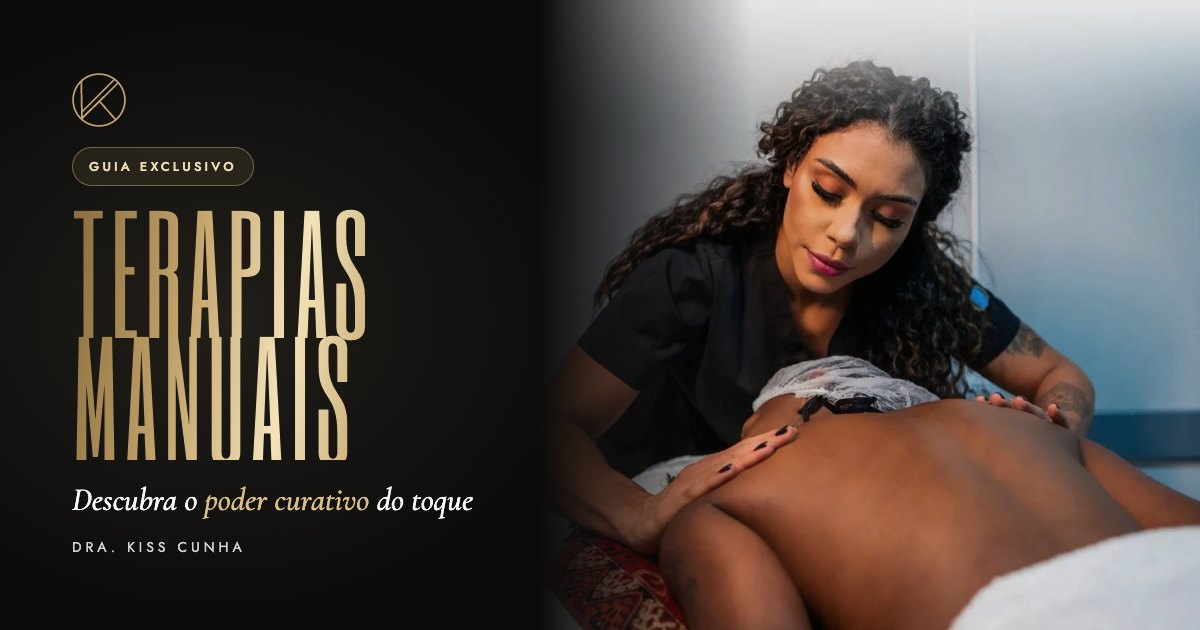
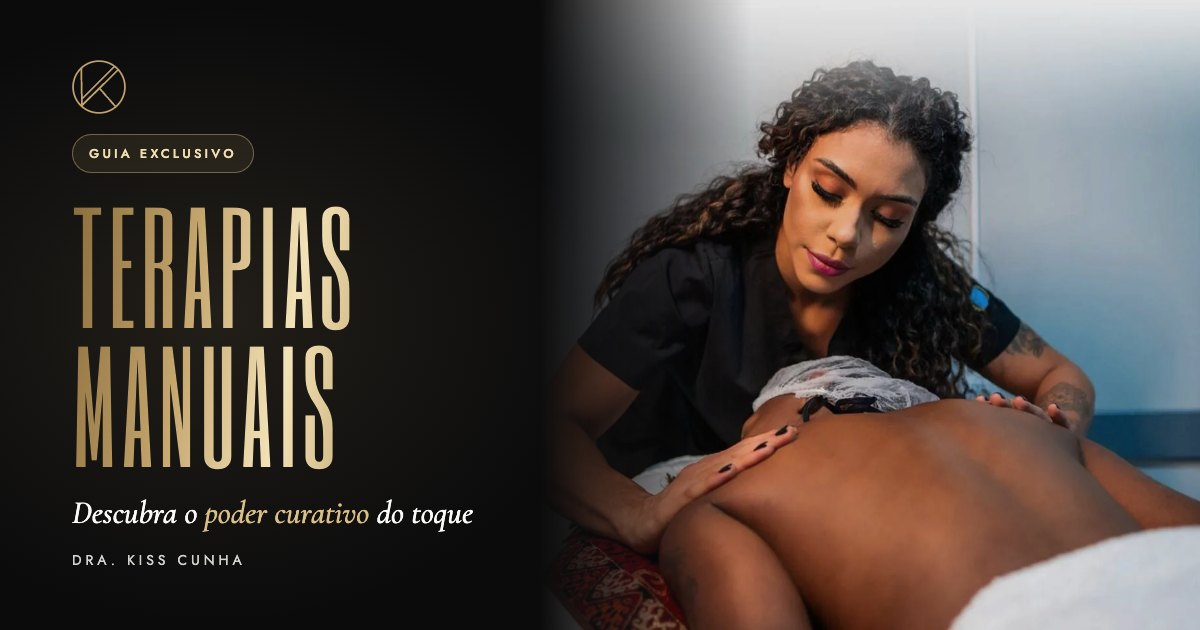
Corrige base cortada dos títulos dourados (site, lista, guia e capas); guia com seletor PT/EN/ES

Changed region(s): [[0.0617, 0.3317, 0.3083, 0.754], [0.0617, 0.7841, 0.4008, 0.9048], [0.0617, 0.0905, 0.2158, 0.3016]]

diff --git a/js/i18n.js b/js/i18n.js
@@ -222,6 +222,96 @@ const T = {
   "Conheça a Dra. Kiss Cunha": ["Meet Dra. Kiss Cunha", "Conoce a la Dra. Kiss Cunha"],
   "Mãos que tocam <em>e transformam</em>": ["Hands that touch <em>and transform</em>", "Manos que tocan <em>y transforman</em>"],
 
+  // ----- guia de terapias manuais -----
+  "Descubra o <em>poder curativo</em> das terapias manuais": ["Discover the <em>healing power</em> of manual therapies", "Descubre el <em>poder curativo</em> de las terapias manuales"],
+  "Minha história com a <em>massoterapia</em>": ["My story with <em>massage therapy</em>", "Mi historia con la <em>masoterapia</em>"],
+  "Dra. Kiss <em>Cunha</em>": ["Dra. Kiss <em>Cunha</em>", "Dra. Kiss <em>Cunha</em>"],
+  "Thai <em>massage</em>": ["Thai <em>massage</em>", "Masaje <em>tailandés</em>"],
+  "Um toque para cada <em>momento</em>": ["A touch for every <em>moment</em>", "Un toque para cada <em>momento</em>"],
+  "Um dia especial para clientes e <em>colaboradores</em>": ["A special day for clients and <em>employees</em>", "Un día especial para clientes y <em>colaboradores</em>"],
+  "Seu momento de <em>recarregar</em>": ["Your time to <em>recharge</em>", "Tu momento para <em>recargar</em>"],
+  "Massagem relaxante": ["Relaxing massage", "Masaje relajante"],
+  "Drenagem linfática": ["Lymphatic drainage", "Drenaje linfático"],
+  "Dreno detox ou modeladora": ["Detox drainage or body sculpting", "Drenaje detox o modelador"],
+  "Massagem para a terceira idade": ["Massage for seniors", "Masaje para la tercera edad"],
+  "Massagem desportiva": ["Sports massage", "Masaje deportivo"],
+  "Massagem em gestantes": ["Prenatal massage", "Masaje para embarazadas"],
+  "Massagem bronzeadora": ["Tanning massage", "Masaje bronceador"],
+  "Pós-operatório de cirurgias estéticas": ["Aesthetic surgery aftercare", "Postoperatorio de cirugías estéticas"],
+  "Terapias": ["Manual", "Terapias"],
+  "Manuais": ["Therapies", "Manuales"],
+  "“Seu momento de recarregar as energias comigo.”": ["“Your moment to recharge your energy with me.”", "“Tu momento de recargar energías conmigo.”"],
+  "Enfermeira esteta · Coren SE 680040": ["Aesthetic nurse · Coren SE 680040", "Enfermera estética · Coren SE 680040"],
+  "Enfermeira esteta<br>Coren SE 680040": ["Aesthetic nurse<br>Coren SE 680040", "Enfermera estética<br>Coren SE 680040"],
+  "Minha história": ["My story", "Mi historia"],
+  "Apaixonada por massagem, sempre procurei profissionais capacitados para ter um momento de relaxamento ou para acreditar no meu progresso de desenvolvimento estético pessoal, com as massagens relaxante, modeladora, drenagem e uma que me fazia muito bem, a liberação miofascial.": ["Passionate about massage, I always sought out skilled professionals for a moment of relaxation or to believe in my own aesthetic progress, through relaxing massage, body sculpting, drainage and one that did me a lot of good: myofascial release.", "Apasionada por los masajes, siempre busqué profesionales capacitados para tener un momento de relajación o para creer en mi propio progreso estético, con masajes relajantes, modeladores, drenaje y uno que me hacía muy bien: la liberación miofascial."],
+  "Atuo com massagens há 3 anos e sinto muita satisfação em fazer meus pacientes mais felizes.": ["I have been working with massage for 3 years and it's deeply rewarding to make my patients happier.", "Trabajo con masajes desde hace 3 años y me llena de satisfacción hacer más felices a mis pacientes."],
+  "O toque cura, as mãos abençoam e levam nossa boa energia por onde formos.": ["Touch heals, hands bless and carry our good energy wherever we go.", "El toque cura, las manos bendicen y llevan nuestra buena energía a donde vayamos."],
+  "Conheça minhas massagens": ["See my massages", "Conoce mis masajes"],
+  "Quem sou eu?": ["Who am I?", "¿Quién soy?"],
+  "Olá, sou a Dra. Kiss Cunha, enfermeira esteta e sergipana. Minha paixão pela beleza e pelo cuidado com o corpo e a mente me levou a buscar conhecimentos e aprimorar técnicas que hoje posso oferecer aos meus pacientes. Acredito que a estética é uma área que vai muito além da vaidade: ela tem o poder de transformar sonhos em realidade e proporcionar uma sensação única de bem-estar e autoconfiança.": ["Hi, I'm Dra. Kiss Cunha, an aesthetic nurse from Sergipe, Brazil. My passion for beauty and for caring for body and mind led me to seek knowledge and refine techniques I can now offer my patients. I believe aesthetics goes far beyond vanity: it has the power to turn dreams into reality and bring a unique sense of well-being and self-confidence.", "Hola, soy la Dra. Kiss Cunha, enfermera estética de Sergipe, Brasil. Mi pasión por la belleza y por el cuidado del cuerpo y la mente me llevó a buscar conocimiento y perfeccionar técnicas que hoy puedo ofrecer a mis pacientes. Creo que la estética va mucho más allá de la vanidad: tiene el poder de convertir sueños en realidad y brindar una sensación única de bienestar y autoconfianza."],
+  "Cada paciente que atendo é único e possui necessidades específicas. Por isso, busco oferecer um atendimento personalizado e de qualidade, utilizando técnicas avançadas e seguras para garantir resultados satisfatórios e duradouros. É uma satisfação imensa poder ajudar meus pacientes a se sentirem ainda mais bonitos, confiantes e felizes consigo mesmos.": ["Every patient I see is unique and has specific needs. That's why I offer personalised, high-quality care, using advanced and safe techniques to achieve satisfying, lasting results. It's a great joy to help my patients feel even more beautiful, confident and happy with themselves.", "Cada paciente que atiendo es único y tiene necesidades específicas. Por eso ofrezco una atención personalizada y de calidad, con técnicas avanzadas y seguras para lograr resultados satisfactorios y duraderos. Es una enorme satisfacción ayudar a mis pacientes a sentirse aún más bellos, seguros y felices consigo mismos."],
+  "Se você busca um tratamento especializado e uma experiência única em cuidados estéticos, venha conhecer meu trabalho.": ["If you're looking for specialised treatment and a unique aesthetic care experience, come and get to know my work.", "Si buscas un tratamiento especializado y una experiencia única en cuidados estéticos, ven a conocer mi trabajo."],
+  "Vou te ajudar a transformar seus sonhos em <em>possibilidades reais.</em>": ["I'll help you turn your dreams into <em>real possibilities.</em>", "Te ayudaré a convertir tus sueños en <em>posibilidades reales.</em>"],
+  "Formação": ["Training", "Formación"],
+  "Os meus olhos se abriram ao entrar em contato com a Thai massage. A massagem tailandesa, ou Nuad Phaen Boran, é uma terapia curativa tailandesa que utiliza a massagem como forma de equilíbrio corporal: o terapeuta usa pés, joelhos, polegares, palmas e cotovelos, além de pressão, compressão e alongamento, no corpo do paciente. Trabalha também técnicas de respiração e meditação.": ["My eyes were opened when I discovered Thai massage. Thai massage, or Nuad Phaen Boran, is a traditional Thai healing therapy that uses massage to bring the body into balance: the therapist uses feet, knees, thumbs, palms and elbows, along with pressure, compression and stretching. It also works with breathing and meditation techniques.", "Mis ojos se abrieron al conocer el masaje tailandés. El masaje tailandés, o Nuad Phaen Boran, es una terapia curativa tradicional que usa el masaje para equilibrar el cuerpo: el terapeuta utiliza pies, rodillas, pulgares, palmas y codos, además de presión, compresión y estiramiento. También trabaja técnicas de respiración y meditación."],
+  "Ao conhecer mais sobre a ciência da Thai massage, pude adentrar mais no conhecimento e no amor pela arte, e em todos os meus atendimentos sempre uso alguma técnica e ensinamento dela.": ["Learning more about the science of Thai massage deepened my knowledge and love for the art, and I bring one of its techniques and teachings into every session.", "Al conocer más la ciencia del masaje tailandés, profundicé en el conocimiento y el amor por este arte, y en cada sesión uso alguna de sus técnicas y enseñanzas."],
+  "Habilitação em Thai Massage, níveis 01 e 02": ["Thai Massage certification, levels 01 and 02", "Certificación en Masaje Tailandés, niveles 01 y 02"],
+  "Minhas massagens": ["My massages", "Mis masajes"],
+  "Realizada em todo o corpo, com toques que estimulam sensações de bem-estar e de conexão consigo mesmo.": ["A full-body massage with touches that awaken a sense of well-being and connection with yourself.", "Se realiza en todo el cuerpo, con toques que estimulan sensaciones de bienestar y de conexión con uno mismo."],
+  "<b>Benefícios:</b> diminuição do estresse, aumento da imunidade, diminuição de tensões musculares, ansiedade e medo.": ["<b>Benefits:</b> less stress, stronger immunity, and relief from muscle tension, anxiety and fear.", "<b>Beneficios:</b> menos estrés, más inmunidad y alivio de tensiones musculares, ansiedad y miedo."],
+  "Por meio de uma anamnese, são avaliadas as condições de saúde e a necessidade de toques mais profundos em regiões ou pontos a serem tratados. O ambiente é seguro e climatizado, com iluminação agradável, música e sons que conduzem ao relaxamento.": ["A health history assesses your condition and whether deeper pressure is needed in specific areas or points. The setting is safe and climate-controlled, with soft lighting, music and sounds that lead you into relaxation.", "Mediante una anamnesis se evalúan tu estado de salud y la necesidad de toques más profundos en zonas o puntos a tratar. El ambiente es seguro y climatizado, con iluminación agradable, música y sonidos que conducen a la relajación."],
+  "A queridinha para dar adeus à retenção de líquidos. Estimula o sistema linfático, melhora o fluxo, reduz a retenção de líquidos e favorece a circulação, ajudando na eliminação de toxinas do corpo.": ["The favourite for saying goodbye to fluid retention. It stimulates the lymphatic system, improves flow, reduces fluid retention and boosts circulation, helping the body eliminate toxins.", "La favorita para decir adiós a la retención de líquidos. Estimula el sistema linfático, mejora el flujo, reduce la retención y favorece la circulación, ayudando a eliminar toxinas del cuerpo."],
+  "A preferida para redução de medidas! Associada à drenagem linfática, é uma técnica com movimentos mais intensos e firmes que ajuda na remodelação corporal, visando a redução de medidas e a melhora da aparência da pele.": ["The go-to for reducing measurements! Combined with lymphatic drainage, it uses firmer, more intense movements to help reshape the body, reduce measurements and improve the look of the skin.", "¡La preferida para reducir medidas! Asociada al drenaje linfático, usa movimientos más intensos y firmes que ayudan a remodelar el cuerpo, reducir medidas y mejorar el aspecto de la piel."],
+  "Pode ser associada a procedimentos de intradermoterapia e criolipólise para perda de gordura.": ["Can be combined with intradermotherapy and cryolipolysis for fat loss.", "Puede combinarse con intradermoterapia y criolipólisis para la pérdida de grasa."],
+  "Proporciona alívio da dor, melhora da circulação sanguínea, relaxamento muscular e redução do estresse e da ansiedade.": ["Relieves pain, improves blood circulation, relaxes the muscles and reduces stress and anxiety.", "Alivia el dolor, mejora la circulación sanguínea, relaja los músculos y reduce el estrés y la ansiedad."],
+  "A técnica é adaptada às necessidades e condições de cada pessoa, considerando sua fragilidade e possíveis problemas de saúde.": ["The technique is adapted to each person's needs and condition, taking frailty and possible health issues into account.", "La técnica se adapta a las necesidades y condiciones de cada persona, considerando su fragilidad y posibles problemas de salud."],
+  "Atendimento em home care e em unidades de atenção ao idoso.": ["Available as home care and in senior care facilities.", "Atención a domicilio y en centros de atención al adulto mayor."],
+  "Também conhecida como liberação miofascial, é voltada ao preparo e à recuperação muscular, para atletas ou não. Relaxa os músculos, reduz a tensão, melhora a circulação e ajuda na recuperação após o exercício físico.": ["Also known as myofascial release, it focuses on muscle preparation and recovery, for athletes and non-athletes alike. It relaxes the muscles, reduces tension, improves circulation and speeds recovery after exercise.", "También conocido como liberación miofascial, está enfocado en la preparación y recuperación muscular, para deportistas o no. Relaja los músculos, reduce la tensión, mejora la circulación y ayuda a recuperarse después del ejercicio."],
+  "Também auxilia na prevenção de lesões, identificando áreas de tensão ou desequilíbrios musculares. Pode ser aplicada antes do treino ou da competição para aquecer e preparar os músculos.": ["It also helps prevent injuries by identifying areas of tension or muscle imbalance. It can be done before training or competition to warm up and prepare the muscles.", "También ayuda a prevenir lesiones al identificar zonas de tensión o desequilibrios musculares. Puede aplicarse antes del entrenamiento o la competición para calentar y preparar los músculos."],
+  "Uma forma suave e terapêutica de cuidado durante a gravidez, adaptada às necessidades da gestante: alívio da dor lombar, relaxamento muscular, redução do inchaço e bem-estar geral.": ["A gentle, therapeutic form of care during pregnancy, adapted to the mother-to-be: lower back pain relief, muscle relaxation, less swelling and overall well-being.", "Una forma suave y terapéutica de cuidado durante el embarazo, adaptada a la gestante: alivio del dolor lumbar, relajación muscular, menos hinchazón y bienestar general."],
+  "Ajuda a lidar com as mudanças físicas e emocionais da gestação.": ["It helps you cope with the physical and emotional changes of pregnancy.", "Ayuda a sobrellevar los cambios físicos y emocionales del embarazo."],
+  "Pode ser realizada em home care, com atendimento até o puerpério.": ["Available as home care, including the postpartum period.", "Puede realizarse a domicilio, con atención hasta el puerperio."],
+  "Combina técnicas de massagem com a aplicação de produtos que aceleram o bronzeamento, normalmente com agentes autobronzeadores ou aceleradores de melanina.": ["Combines massage techniques with products that speed up tanning, usually containing self-tanning agents or melanin accelerators.", "Combina técnicas de masaje con la aplicación de productos que aceleran el bronceado, normalmente con autobronceadores o aceleradores de melanina."],
+  "<b>Bronzeado uniforme:</b> a massagem distribui os produtos por igual, evitando manchas e descolorações.": ["<b>Even tan:</b> the massage spreads the products evenly, avoiding streaks and patches.", "<b>Bronceado uniforme:</b> el masaje distribuye los productos de manera pareja, evitando manchas."],
+  "<b>Hidratação da pele:</b> os produtos são ricos em ingredientes hidratantes, que melhoram a textura e a saúde da pele.": ["<b>Skin hydration:</b> the products are rich in moisturising ingredients that improve skin texture and health.", "<b>Hidratación de la piel:</b> los productos son ricos en ingredientes hidratantes que mejoran la textura y la salud de la piel."],
+  "<b>Relaxamento:</b> a própria massagem relaxa os músculos e alivia o estresse.": ["<b>Relaxation:</b> the massage itself relaxes the muscles and relieves stress.", "<b>Relajación:</b> el propio masaje relaja los músculos y alivia el estrés."],
+  "Pode ser feita com seu biquíni ou sunga, ou com biquíni de fita feito antes da sessão.": ["Can be done in your own swimwear, or with a tape bikini applied before the session.", "Puede hacerse con tu bikini o bañador, o con un bikini de cinta hecho antes de la sesión."],
+  "Além das sessões de drenagem linfática (linfoterapia), a consulta de enfermagem traz consultoria e cuidados para uma recuperação melhor, com uso de equipamentos e técnicas como a laserterapia.": ["In addition to lymphatic drainage sessions (lymphotherapy), the nursing consultation provides guidance and care for a better recovery, using equipment and techniques such as laser therapy.", "Además de las sesiones de drenaje linfático (linfoterapia), la consulta de enfermería brinda asesoría y cuidados para una mejor recuperación, con equipos y técnicas como la laserterapia."],
+  "<b>A consulta no pós-operatório contempla:</b>": ["<b>The aftercare consultation includes:</b>", "<b>La consulta postoperatoria incluye:</b>"],
+  "Consulta individualizada e humanizada": ["Individual, human-centred consultation", "Consulta individual y humanizada"],
+  "Anamnese minuciosa": ["Thorough health history", "Anamnesis minuciosa"],
+  "Avaliação facial e corporal baseada em evidências": ["Evidence-based facial and body assessment", "Evaluación facial y corporal basada en evidencia"],
+  "Orientações sobre a equipe que cuidará do caso": ["Guidance on the team who will look after your case", "Orientación sobre el equipo que cuidará tu caso"],
+  "Cuidados pós-procedimento, com apoio da equipe multidisciplinar": ["Aftercare with support from the multidisciplinary team", "Cuidados post-procedimiento, con apoyo del equipo multidisciplinario"],
+  "Para sua empresa": ["For your business", "Para tu empresa"],
+  "O serviço de massagem funciona como um mimo para seu cliente ou paciente em uma data especial, ou num dia da semana em que você queira atrair mais público para sua empresa.": ["The massage service is a treat for your clients or patients on a special date, or on any day of the week when you want to draw more people to your business.", "El servicio de masajes es un detalle para tus clientes o pacientes en una fecha especial, o en un día de la semana en que quieras atraer más público a tu empresa."],
+  "Oferecer massagens aos colaboradores é uma iniciativa ligada à saúde do trabalhador.": ["Offering massages to employees is an investment in workplace health.", "Ofrecer masajes a los colaboradores es una iniciativa ligada a la salud laboral."],
+  "A saúde ocupacional é essencial para o bem-estar da equipe e para prevenir estresse, dores musculares e lesões por esforço repetitivo. As massagens aliviam o estresse, relaxam os músculos tensos e favorecem uma postura melhor, contribuindo para a saúde física e mental.": ["Occupational health is essential for team well-being and for preventing stress, muscle pain and repetitive strain injuries. Massage relieves stress, relaxes tense muscles and supports better posture, contributing to physical and mental health.", "La salud ocupacional es esencial para el bienestar del equipo y para prevenir el estrés, los dolores musculares y las lesiones por esfuerzo repetitivo. Los masajes alivian el estrés, relajan los músculos tensos y favorecen una mejor postura, contribuyendo a la salud física y mental."],
+  "Mesmo sem uma legislação que exija a oferta de massagens, investir em saúde e bem-estar é uma estratégia eficaz para um ambiente de trabalho saudável e produtivo.": ["Even though no law requires it, investing in health and well-being is an effective strategy for a healthy, productive workplace.", "Aunque ninguna ley lo exija, invertir en salud y bienestar es una estrategia eficaz para un ambiente de trabajo saludable y productivo."],
+  "Pedir orçamento": ["Request a quote", "Pedir presupuesto"],
+  "Agende sua sessão": ["Book your session", "Reserva tu sesión"],
+  "Escolha a massagem ideal para você e marque seu horário pelo WhatsApp.": ["Choose the right massage for you and book your time on WhatsApp.", "Elige el masaje ideal para ti y reserva tu horario por WhatsApp."],
+  "Agendar sessão": ["Book a session", "Reservar sesión"],
+  "Parceiros": ["Partners", "Socios"],
+  "Localização": ["Location", "Ubicación"],
+  "Instagram": ["Instagram", "Instagram"],
+  "Massagens": ["Massages", "Masajes"],
+  "Empresas": ["Business", "Empresas"],
+  "Guia": ["Guide", "Guía"],
+  "Baixar em PDF": ["Download PDF", "Descargar PDF"],
+  "Duração": ["Duration", "Duración"],
+  "Manobras": ["Techniques", "Maniobras"],
+  "Intensidade": ["Intensity", "Intensidad"],
+  "Indicação": ["Recommended for", "Indicación"],
+  "45 a 50 min": ["45 to 50 min", "45 a 50 min"],
+  "Amassamento, deslizamento, toques firmes e suaves": ["Kneading, gliding, firm and gentle strokes", "Amasamiento, deslizamiento, toques firmes y suaves"],
+  "Suave e média": ["Gentle to medium", "Suave y media"],
+  "Movimentos específicos e ritmados que direcionam o fluido pelos vasos linfáticos": ["Specific, rhythmic movements that guide fluid through the lymphatic vessels", "Movimientos específicos y rítmicos que dirigen el fluido por los vasos linfáticos"],
+  "Período menstrual, retenção de líquidos, pós-operatório ou como parte de um programa de bem-estar": ["Menstrual period, fluid retention, post-surgery or as part of a wellness programme", "Período menstrual, retención de líquidos, postoperatorio o como parte de un programa de bienestar"],
+  "Amassamento, deslizamento e percussão": ["Kneading, gliding and percussion", "Amasamiento, deslizamiento y percusión"],
+  "Guia exclusivo · Terapias manuais ·": ["Exclusive guide · Manual therapies ·", "Guía exclusiva · Terapias manuales ·"],
+
   // ----- selos giratórios -----
   "Estética avançada · Terapias manuais ·": ["Advanced aesthetics · Manual therapies ·", "Estética avanzada · Terapias manuales ·"],
   "Sua autoestima em primeiro lugar ·": ["Your self-esteem comes first ·", "Tu autoestima es lo primero ·"],
@@ -242,6 +332,8 @@ const WA = {
   "gostaria de mais informações sobre ser paciente modelo de Harmonização Facial": ["I'd like more information about being a model patient for facial harmonisation", "me gustaría más información sobre ser paciente modelo de armonización facial"],
   "gostaria de mais informações sobre ser paciente modelo de Remodelação Glútea": ["I'd like more information about being a model patient for glute reshaping", "me gustaría más información sobre ser paciente modelo de remodelación glútea"],
   "tudo bem?": ["how are you?", "¿qué tal?"],
+  "gostaria de agendar uma sessão de terapia manual": ["I'd like to book a manual therapy session", "me gustaría reservar una sesión de terapia manual"],
+  "gostaria de um orçamento de massagem para minha empresa": ["I'd like a quote for massage at my company", "me gustaría un presupuesto de masajes para mi empresa"],
 };
 const WA_PT_PADRAO = "Olá Dra. Kiss, tudo bem? Gostaria de agendar uma consulta!";
 const OLA = { pt: "Olá Kiss, ", en: "Hi Kiss, ", es: "Hola Kiss, " };
@@ -270,13 +362,15 @@ const ATTR = {
   "Agendar harmonização facial": ["Book facial harmonisation", "Reservar armonización facial"],
   "Agendar harmonização corporal": ["Book body harmonisation", "Reservar armonización corporal"],
   "Idioma": ["Language", "Idioma"],
+  "Terapias manuais | Dra. Kiss Cunha": ["Manual therapies | Dra. Kiss Cunha", "Terapias manuales | Dra. Kiss Cunha"],
+  "Guia exclusivo de terapias manuais da Dra. Kiss Cunha.": ["Dra. Kiss Cunha's exclusive guide to manual therapies.", "Guía exclusiva de terapias manuales de la Dra. Kiss Cunha."],
 };
 
 (() => {
   const IDIOMAS = ["pt", "en", "es"];
   const idx = { en: 0, es: 1 };
   const norm = (s) => s.replace(/\s+/g, " ").trim();
-  const ALVOS = "title,h1,h2,h3,h4,p,li,summary,figcaption,a,span,small,strong,b,button";
+  const ALVOS = "title,h1,h2,h3,h4,p,li,summary,figcaption,a,span,small,strong,b,button,dt,dd,blockquote";
   const INLINE = new Set(["EM", "B", "STRONG", "BR", "I"]);
 
   // guarda o português original de cada ponto traduzível, uma única vez
@@ -334,6 +428,7 @@ const ATTR = {
     const url = new URL(location.href);
     if (lang === "pt") url.searchParams.delete("lang"); else url.searchParams.set("lang", lang);
     history.replaceState(null, "", url);
+    dispatchEvent(new Event("resize")); // realinha a hero ao novo tamanho do título
   }
 
   document.querySelectorAll(".idioma button").forEach((b) => b.addEventListener("click", () => aplica(b.dataset.lang)));

diff --git a/guia-terapias-s8estc/index.html b/guia-terapias-s8estc/index.html
@@ -83,7 +83,11 @@
       <a class="pill btn-ouro" href="#" data-wa="gostaria de agendar uma sessão de terapia manual">Agendar sessão <span class="estrela" aria-hidden="true">✦</span></a>
     </div>
 
-    <p class="hero__assina">“Seu momento de recarregar<br>as energias comigo.”<small>Enfermeira esteta · Coren SE 680040</small></p>
+    <p class="hero__assina"><span>“Seu momento de recarregar as energias comigo.”</span><small>Enfermeira esteta · Coren SE 680040</small></p>
+
+    <div class="idioma hero__idioma" role="group" aria-label="Idioma">
+      <button type="button" data-lang="pt" aria-pressed="true">PT</button><button type="button" data-lang="en" aria-pressed="false">EN</button><button type="button" data-lang="es" aria-pressed="false">ES</button>
+    </div>
   </section>
 
   <!-- MINHA HISTÓRIA -->
@@ -316,15 +320,8 @@
 
 <a class="wa-flutua oculto" href="#" data-wa="gostaria de agendar uma sessão de terapia manual" aria-label="Agendar pelo WhatsApp"><svg><use href="#wa"/></svg></a>
 
-<script>
-  // WhatsApp com a mensagem de cada botão
-  document.querySelectorAll("[data-wa]").forEach((a) => {
-    a.href = "https://wa.me/5511914801043?text=" + encodeURIComponent("Olá Kiss, " + a.dataset.wa);
-    a.target = "_blank";
-    a.rel = "noopener";
-  });
-</script>
 <script src="../js/site.js"></script>
 <script src="../js/efeitos.js"></script>
+<script src="../js/i18n.js"></script>
 </body>
 </html>

diff --git a/css/lista.css b/css/lista.css
@@ -17,7 +17,7 @@
 .lk-nome{display:flex;justify-content:center;gap:.28em;margin:0;
   font:400 clamp(96px,30vw,150px)/.82 "Six Caps",var(--display);letter-spacing:.04em;text-transform:uppercase;white-space:nowrap;
   color:var(--ouro);background:linear-gradient(100deg,#7d6236 0%,#b99a63 18%,#f1dfb3 34%,#c8ab74 46%,#8e7143 62%,#d8bd87 80%,#9a7d49 100%);
-  background-size:240% 100%;-webkit-background-clip:text;background-clip:text;-webkit-text-fill-color:transparent;
+  background-size:240% 100%;-webkit-background-clip:text;background-clip:text;-webkit-text-fill-color:transparent;padding:.08em 0 .16em;margin-top:-.08em;margin-bottom:-.16em;
   filter:drop-shadow(0 0 22px rgba(191,162,111,.18))}
 .lk-topo__sub{margin:14px 0 26px;font:400 11px var(--corpo);letter-spacing:.26em;text-transform:uppercase;color:var(--cinza)}
 .lk-cta{width:100%;justify-content:center;padding:17px 22px}

diff --git a/css/guia.css b/css/guia.css
@@ -4,8 +4,9 @@
 .hero--guia .hero__nome{font-size:clamp(110px,19vw,420px);gap:.45em}
 .hero--guia .hero__esq{max-width:min(420px,30vw)}
 .hero--guia .hero__esq h1{font-size:clamp(28px,2.6vw,44px)}
-.hero__assina{position:absolute;z-index:4;right:var(--nome-r,var(--gut));bottom:clamp(56px,12vh,130px);max-width:320px;margin:0;text-align:right;
+.hero__assina{position:absolute;z-index:4;right:var(--nome-r,var(--gut));bottom:calc(clamp(56px,12vh,130px) + 70px);max-width:300px;margin:0;text-align:right;
   font:italic 500 22px/1.3 var(--display);color:var(--cinza)}
+.hero__assina span{display:block}
 .hero__assina small{display:block;white-space:nowrap;margin-top:12px;font:400 10px var(--corpo);letter-spacing:.24em;text-transform:uppercase;font-style:normal;color:var(--ouro)}
 
 /* textos de apoio */

diff --git a/css/site.css b/css/site.css
@@ -89,6 +89,7 @@ h1 em,h2 em,.frase em{font-style:italic;color:var(--ouro)}
   color:var(--ouro);
   background:linear-gradient(100deg,#7d6236 0%,#b99a63 18%,#f1dfb3 34%,#c8ab74 46%,#8e7143 62%,#d8bd87 80%,#9a7d49 100%);
   background-size:240% 100%;background-position:0% 0;-webkit-background-clip:text;background-clip:text;-webkit-text-fill-color:transparent;
+  padding:.08em 0 .16em;margin-top:-.08em;
   filter:drop-shadow(0 0 28px rgba(191,162,111,.16)) drop-shadow(0 2px 1px rgba(0,0,0,.35))}
 .hero__esq{position:absolute;z-index:4;left:var(--nome-x,var(--gut));bottom:clamp(56px,12vh,130px);max-width:min(380px,28vw)}
 .hero__esq h1{margin:0 0 30px;font:500 clamp(30px,3vw,46px)/1.08 var(--display);color:var(--off)}
